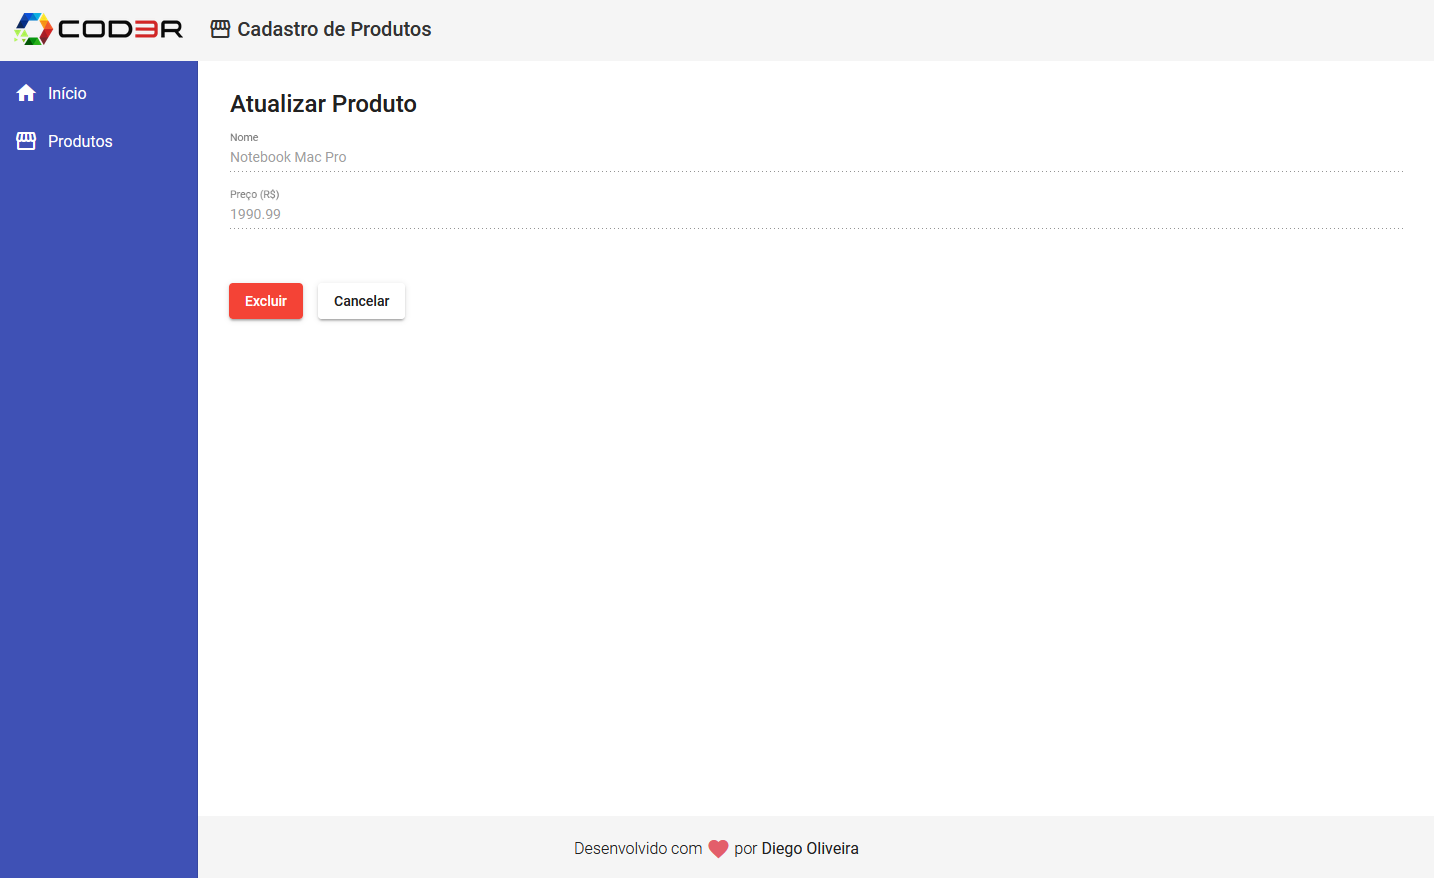
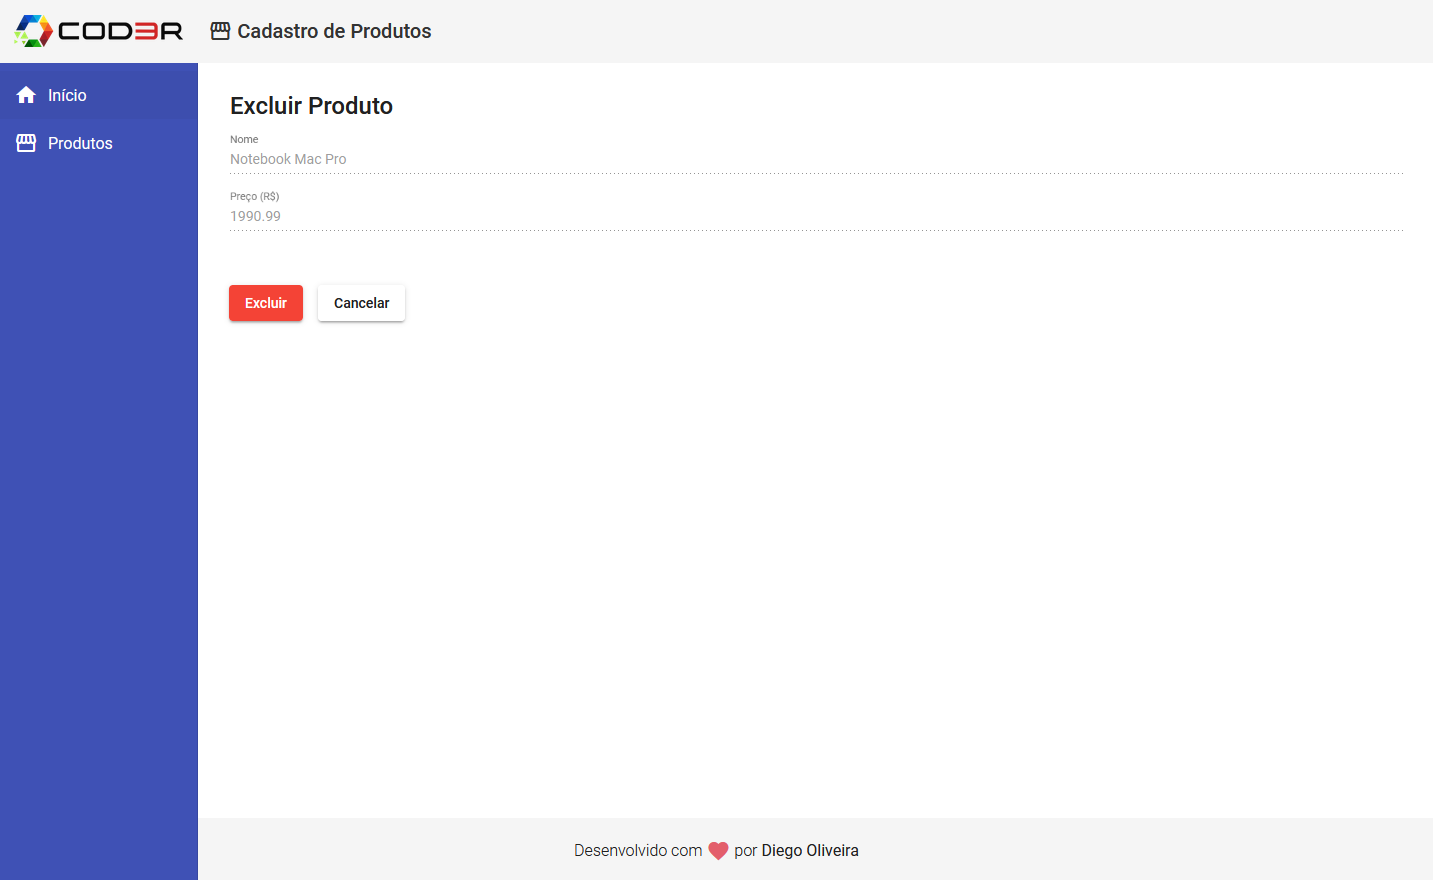
corrigido erro ortográfico

diff --git a/src/app/components/product/product-delete/product-delete.component.html b/src/app/components/product/product-delete/product-delete.component.html
@@ -1,5 +1,5 @@
 <mat-card class="mat-elevation-z0">
-  <mat-card-title>Atualizar Produto</mat-card-title>
+  <mat-card-title>Excluir Produto</mat-card-title>
   <form>
     <mat-form-field>
       <input
